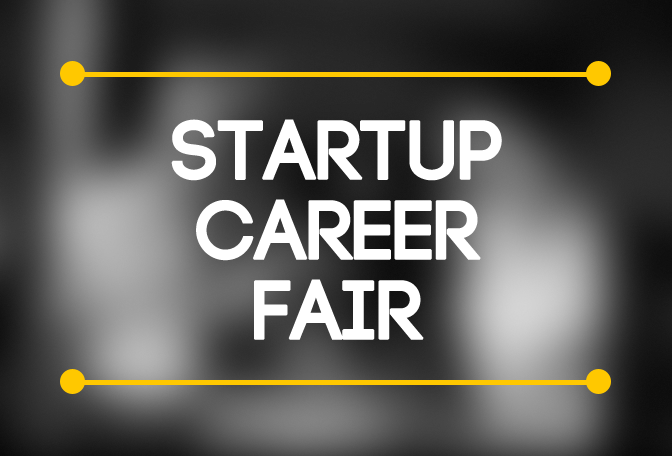
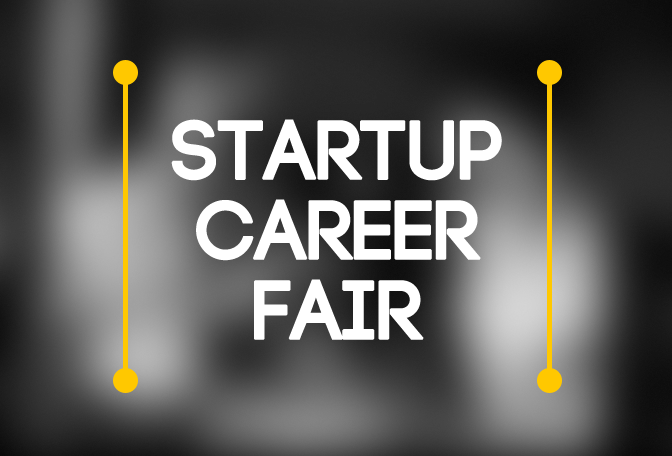
more project tile changes

Changed region(s): [[0.0938, 0.1228, 0.9062, 0.8596]]

diff --git a/index.html b/index.html
@@ -108,7 +108,7 @@
 				<div>
 					<div class="project tileflip" id="scf">
 						<!-- MPowered Career Fair -->
-						<img src="projects/scf.png">
+						<img src="projects/cf2.png">
 					</div>
 					<div class="projectdata">
 						<div class="project_text">
